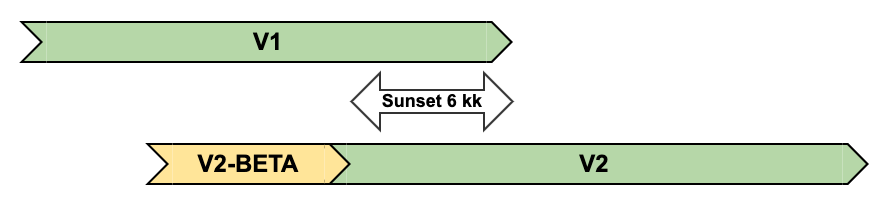
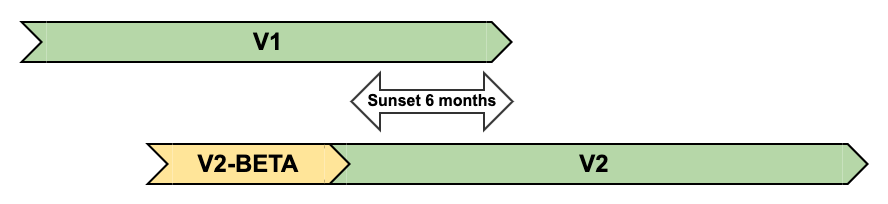
DPO-1872 Apien versiointi: Versioinnin parempi esitys sivustolle

Changed region(s): [[0.3953, 0.4412, 0.5777, 0.5294]]

diff --git a/pages/ohjeita.md b/pages/ohjeita.md
@@ -28,8 +28,9 @@ Vanha rajapintaversio on saatavilla vielä kuusi kuukautta, jonka jälkeen se po
 Tänä aikana vanhentuneen rajapinnan tietoturva- ja virheenkorjauksia harkitaan tapauskohtaisesti.
 Yllä oleva kuva pyrkii selventämään rajapintojen elinkaarta.
 
-Uusista rajapintaversioista tiedotetaan [tie](https://groups.google.com/g/roaddigitrafficfi)- ja 
-[meri](https://groups.google.com/g/meridigitrafficfi)-Google-ryhmissä.
+Uusista rajapintaversioista tiedotetaan [tie](https://groups.google.com/g/roaddigitrafficfi)-,  
+[meri](https://groups.google.com/g/meridigitrafficfi)- ja
+[rata](https://groups.google.com/u/1/g/rata_digitraffic_fi)-Google-ryhmissä.
 
 ## Miten saan tiedon päivityksistä ja vikatilanteista?
 Tarkkaile statussivua [https://status.digitraffic.fi](https://status.digitraffic.fi).

diff --git a/pages/ohjeita-en.md b/pages/ohjeita-en.md
@@ -28,7 +28,9 @@ During this period, security and bug fixes to the deprecated API will be conside
 The image above aims to clarify the life cycle of interfaces.
 
 New api versions will be announced in Google-groups 
-[road](https://groups.google.com/g/roaddigitrafficfi) and [marine](https://groups.google.com/g/meridigitrafficfi).
+[road](https://groups.google.com/g/roaddigitrafficfi),
+[marine](https://groups.google.com/g/meridigitrafficfi) and
+[rail](https://groups.google.com/u/1/g/rata_digitraffic_fi).
 
 ## How can I be aware of updates and incidents?
 Check the status page [https://status.digitraffic.fi](https://status.digitraffic.fi).
